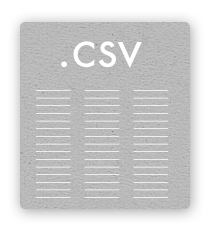
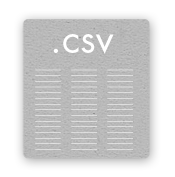
more texturey updates

diff --git a/attachments/index.html b/attachments/index.html
@@ -15,15 +15,15 @@ a:hover {color: #d0b854; border-bottom: 1px dotted #d0b854;}
 #wrapper {position: relative; margin: auto; width: 750px; overflow: auto;}
 #content {width: 100%;}
 
-#top {margin: 40px 0px 0px 20px;}
+#top {margin-top: 40px; text-align: center;}
 
-#left       {width: 300px; float: left; padding: 20px 0px 20px 0px; }
-.fromfile   {width: 100%; height: 160px; background-image: url('shp.png'); background-repeat: no-repeat; background-position: center;}
+#left       {width: 300px; float: left; padding: 20px 0px 20px 0px;}
+.fromfile   {width: 100%; height: 133px; background-image: url('dough.png'); background-repeat: no-repeat; background-position: center;}
 .rollingpin {width: 100%; height: 81px;  background-image: url('rollingpin.png'); background-repeat: no-repeat; background-position: center;}
-.newfile    {width: 100%; height: 280px; background-image: url('csv.png'); background-repeat: no-repeat; background-position: center;}
+.newfile    {width: 100%; height: 200px; background-image: url('csv.png'); background-repeat: no-repeat; background-position: center;}
 
-#right      {width: 300px; padding: 120px 50px; float: right;}
-#right p    {font-family: Garamond; font-size: 26px; text-align: center; color: #333; line-height: 2em;}
+#right      {width: 300px; padding: 23px 60px; float: right;}
+#right p    {font-family: Garamond; font-size: 26px; text-align: center; color: #333; line-height: 1.5em; text-shadow: 0 1px 1px rgba(255, 255, 255, 0.75)}
 .sansserif  {font-family: 'Questrial'; font-size: 20px; font-weight: 100;}
 
 #bottom   {width: 100%; float: left; margin: 20px 0px 0px 0px;}
@@ -33,6 +33,38 @@ progress { display: none; width: 100%; }
 .messages { display: none; margin-top: 10px; }
 .errors { margin: 5px 0; }
 .loader { background: url('spinner.gif') no-repeat 0 0; background-size: 40px 40px; width: 40px; height: 40px; margin: 10px 0; }
+
+.btn {
+display: inline-block;
+padding: 4px 14px;
+margin-bottom: 0;
+font-size: 12px;
+line-height: 20px;
+color: #333;
+text-align: center;
+text-shadow: 0 1px 1px rgba(255, 255, 255, 0.75);
+vertical-align: middle;
+cursor: pointer;
+background-color: whiteSmoke;
+background-image: -webkit-gradient(linear, 0 0, 0 100%, from(white), to(#E6E6E6));
+background-image: -webkit-linear-gradient(top, white, #E6E6E6);
+background-image: -o-linear-gradient(top, white, #E6E6E6);
+background-image: linear-gradient(to bottom, white, #E6E6E6);
+background-image: -moz-linear-gradient(top, white, #E6E6E6);
+background-repeat: repeat-x;
+border: 1px solid #BBB;
+border-color: rgba(0, 0, 0, 0.1) rgba(0, 0, 0, 0.1) rgba(0, 0, 0, 0.25);
+border-bottom-color: #A2A2A2;
+-webkit-border-radius: 4px;
+-moz-border-radius: 4px;
+border-radius: 4px;
+filter: progid:dximagetransform.microsoft.gradient(startColorstr='#ffffffff', endColorstr='#ffe6e6e6', GradientType=0);
+filter: progid:dximagetransform.microsoft.gradient(enabled=false);
+-webkit-box-shadow: inset 0 1px 0 rgba(255, 255, 255, 0.2), 0 1px 2px rgba(0, 0, 0, 0.05);
+-moz-box-shadow: inset 0 1px 0 rgba(255, 255, 255, 0.2), 0 1px 2px rgba(0, 0, 0, 0.05);
+box-shadow: inset 0 1px 0 rgba(255, 255, 255, 0.2), 0 1px 2px rgba(0, 0, 0, 0.05);
+}
+
 
 </style>
 </head>
@@ -55,6 +87,7 @@ progress { display: none; width: 100%; }
       
       <div id="right">
         <p>Drag and Drop a zipped ESRI Shapefile <span class="sansserif">.zip</span> OR a MS Access .accdb/.mdb file anywhere on the screen and get a fresh <span class="sansserif">.csv</span>.</p>
+        <span class="btn">Upload File</span>
         
         <progress class="progress" min="0" max="100" value="0">0% complete</progress>
         <div class="messages">
